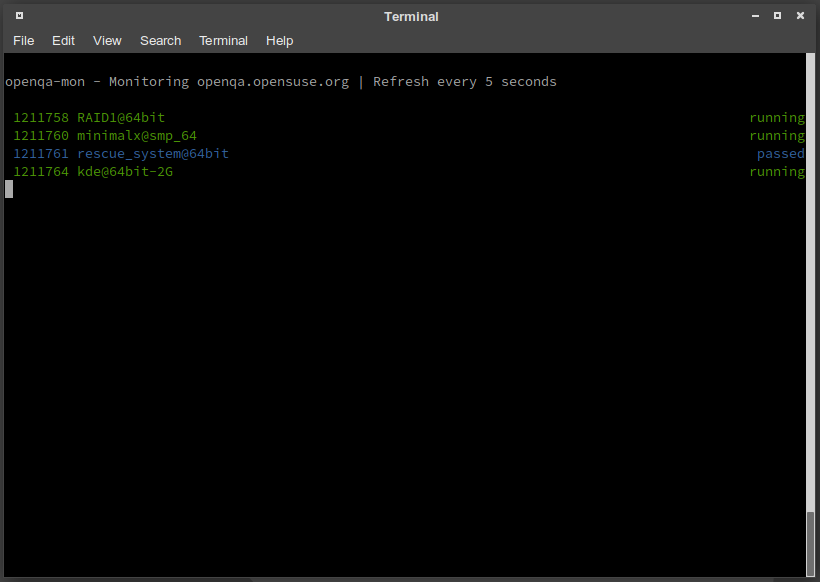
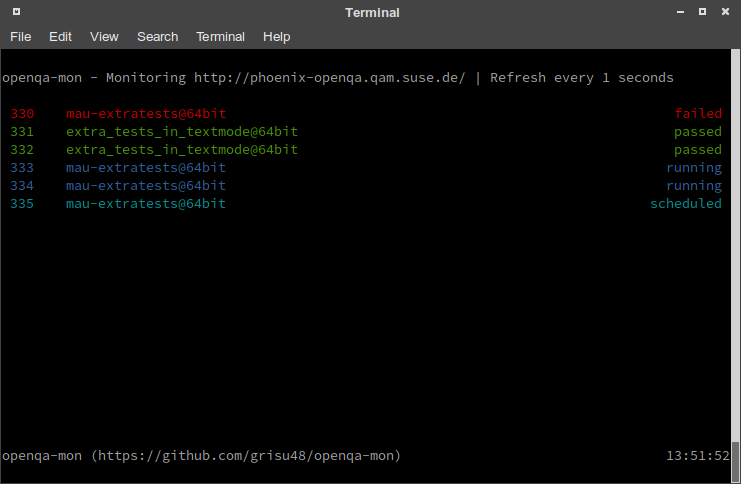
Improved documentation
Improved README to include a better usage section. Continuous monitoring picture has been updated

diff --git a/README.md b/README.md
@@ -18,6 +18,18 @@ CLI monitoring client for [openQA](https://open.qa) written in plain simple go f
 
 ## Usage
 
+    SYNOPSIS:
+    openqa-mon [OPTIONS] REMOTE [JOBS]
+    
+      REMOTE - openQA base URL
+      JOBS can be: either a single job id, multiple comma separated job ids or a job id range (MIN..MAX)
+                   See examples below for examples
+    OPTIONS
+      -c N             Periodic monitoring, refresh every N seconds
+      -h, --help       Print help message
+
+#### Examples
+
 	# Check the job overview
     openqa-mon http://openqa.opensuse.org
     
